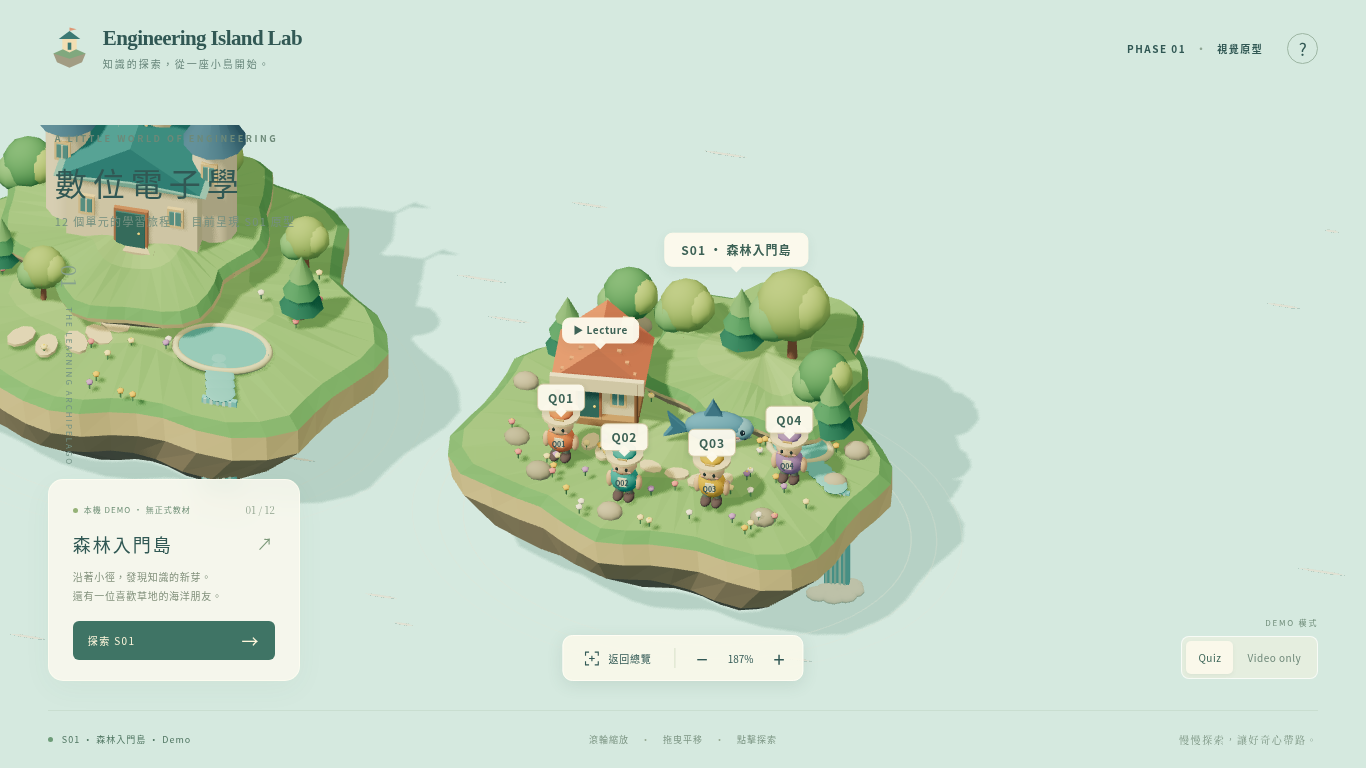
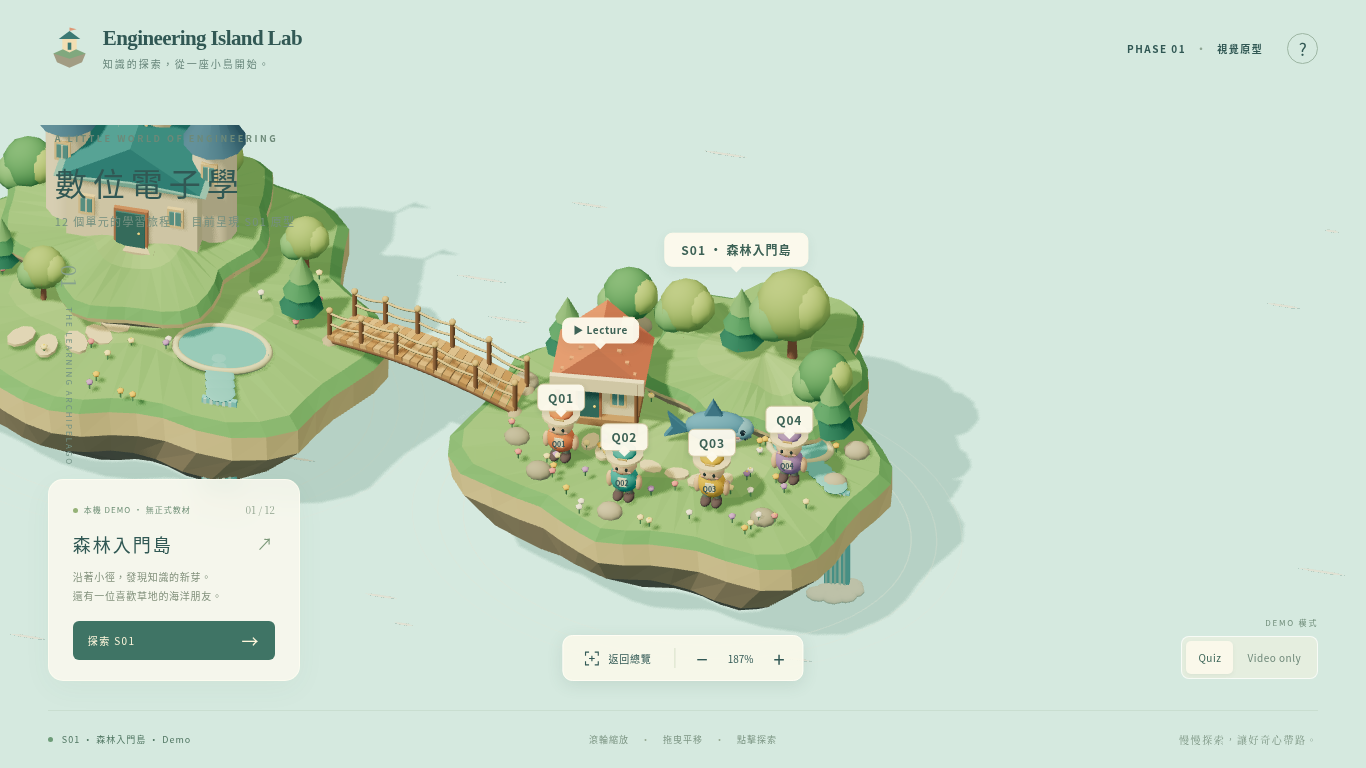
feat: connect prototype islands with a scenic wooden bridge

Changed region(s): [[0.2152, 0.375, 0.3997, 0.5625]]

diff --git a/test/scene.test.js b/test/scene.test.js
@@ -1,6 +1,6 @@
 import assert from 'node:assert/strict';
 import test from 'node:test';
-import { Vector3 } from 'three';
+import { Box3, Raycaster, Vector2, Vector3 } from 'three';
 import { createIslandScene } from '../src/scene.js';
 import { createTerrain } from '../src/world/terrain.js';
 import { sharkPose } from '../src/world/animals.js';
@@ -128,4 +128,68 @@ test('click/drag tracks maximum excursion, exact threshold, cancellation and orp
   gesture.begin(0, 0);
   gesture.cancel();
   assert.equal(gesture.end(0, 0), false);
+});
+
+test('scenic bridge lands on both banks and curves above the water inside the overview', () => {
+  const world = createIslandScene(config, demoFixture);
+  const bridge = world.bridge;
+  world.scene.updateMatrixWorld(true);
+  const banks = [world.academy, world.forest];
+  const deck = bridge.getObjectByName('bridge-deck').children;
+  for (const [i, plank] of [deck[0], deck.at(-1)].entries()) {
+    const terrain = banks[i].getObjectByName('coast-and-cliffs');
+    const ray = new Raycaster(
+      plank.position.clone().add(new Vector3(0, 5, 0)),
+      new Vector3(0, -1, 0),
+    );
+    const hit = ray.intersectObject(terrain)[0];
+    assert.ok(hit, 'each bridge end overlaps solid island terrain');
+    assert.ok(plank.position.y - hit.point.y > 0 && plank.position.y - hit.point.y < 0.4);
+  }
+  const middle = deck[Math.floor(deck.length / 2)].position;
+  const straight = deck[0].position.clone().lerp(deck.at(-1).position, 0.5);
+  assert.ok(middle.y - straight.y > 0.45, 'arched deck remains visibly three-dimensional');
+  assert.ok(
+    middle.z - straight.z > 0.25,
+    'deck bends gently in plan rather than forming a straight road',
+  );
+  assert.ok(
+    world.bounds.containsBox(new Box3().setFromObject(bridge)),
+    'bridge fits existing overview bounds',
+  );
+});
+
+test('bridge stays decorative in both modes and clear of the Lecture/NPC interaction areas', () => {
+  for (const assignmentMode of ['quiz', 'video-only']) {
+    const world = createIslandScene({ ...config, assignmentMode }, demoFixture);
+    world.bridge.traverse((object) => {
+      assert.ok(!world.pickables.includes(object));
+      assert.equal(object.userData.action, undefined);
+    });
+    const bridgeBounds = new Box3().setFromObject(world.bridge);
+    for (const object of [world.forest.getObjectByName('lecture-cottage'), ...world.npcs]) {
+      assert.equal(bridgeBounds.intersectsBox(new Box3().setFromObject(object)), false);
+    }
+    assert.equal(world.npcs.length, assignmentMode === 'quiz' ? 4 : 0);
+  }
+});
+
+test('bridge leaves direct camera sightlines to both island signs, Lecture and all NPCs', () => {
+  const world = createIslandScene(config, demoFixture);
+  const rig = new CameraRig(world.bounds, 1366 / 543);
+  const targets = world.labels.map((item) => item.anchor.getWorldPosition(new Vector3()));
+  for (const object of [world.forest.getObjectByName('lecture-cottage'), ...world.npcs]) {
+    targets.push(new Box3().setFromObject(object).getCenter(new Vector3()));
+  }
+  for (const target of targets) {
+    const projected = target.clone().project(rig.camera);
+    const ray = new Raycaster();
+    ray.setFromCamera(new Vector2(projected.x, projected.y), rig.camera);
+    ray.far = ray.ray.origin.distanceTo(target) - 0.01;
+    assert.equal(
+      ray.intersectObject(world.bridge, true).length,
+      0,
+      'bridge must not obstruct a landmark',
+    );
+  }
 });

diff --git a/src/world/bridge.js b/src/world/bridge.js
@@ -1,0 +1,68 @@
+import { CatmullRomCurve3, Group, Matrix4, TubeGeometry, Vector3 } from 'three';
+import { ball, box, cylinder, mesh } from './primitives.js';
+
+// A scenic footbridge only: no picking, collision, navigation, or input handlers.
+export function createBridge(start, end) {
+  const group = new Group();
+  group.name = 'scenic-bridge';
+  group.userData.decoration = true;
+  const up = new Vector3(0, 1, 0);
+  const points = Array.from({ length: 33 }, (_, i) => {
+    const t = i / 32;
+    const point = start.clone().lerp(end, t);
+    point.y += Math.sin(t * Math.PI) * 0.6;
+    point.z += Math.sin(t * Math.PI) * 0.35;
+    return point;
+  });
+  const curve = new CatmullRomCurve3(points);
+  const acrossAt = (t) => new Vector3().crossVectors(up, curve.getTangentAt(t)).normalize();
+  const offsetAt = (t, side, height) =>
+    curve.getPointAt(t).addScaledVector(acrossAt(t), side).addScaledVector(up, height);
+  const timberColors = ['#c39769', '#d0a779', '#bc8e60', '#d8af80'];
+  const deck = new Group();
+  deck.name = 'bridge-deck';
+  group.add(deck);
+  const count = 25;
+  for (let i = 0; i < count; i++) {
+    const t = (i + 0.5) / count;
+    const tangent = curve.getTangentAt(t);
+    const across = acrossAt(t);
+    const normal = new Vector3().crossVectors(tangent, across).normalize();
+    const plank = box(deck, timberColors[i % timberColors.length], curve.getPointAt(t).toArray(), [
+      1.1,
+      0.13,
+      (curve.getLength() / count) * 0.94,
+    ]);
+    plank.quaternion.setFromRotationMatrix(new Matrix4().makeBasis(across, normal, tangent));
+  }
+  for (const side of [-0.48, 0.48]) {
+    const beam = new CatmullRomCurve3(points.map((_, i) => offsetAt(i / 32, side, -0.13)));
+    mesh(group, new TubeGeometry(beam, 40, 0.075, 6, false), '#886951');
+    // Slim posts and gently dipping rope handrails keep the silhouette light.
+    for (let i = 0; i <= 5; i++) {
+      const foot = offsetAt(i / 5, side, 0);
+      cylinder(group, '#936e50', foot.clone().addScaledVector(up, 0.4).toArray(), 0.065, 0.87, 7);
+      ball(
+        group,
+        '#d5b37d',
+        foot.clone().addScaledVector(up, 0.87).toArray(),
+        [0.09, 0.09, 0.09],
+        7,
+      );
+    }
+    for (const height of [0.43, 0.78]) {
+      const rope = new CatmullRomCurve3(
+        Array.from({ length: 61 }, (_, i) => {
+          const t = i / 60;
+          return offsetAt(t, side, height - Math.abs(Math.sin(t * Math.PI * 5)) * 0.07);
+        }),
+      );
+      mesh(group, new TubeGeometry(rope, 60, 0.035, 5, false), '#d3b98a');
+    }
+    for (const t of [0, 1]) {
+      const foot = offsetAt(t, side, -0.28);
+      ball(group, '#b8ad90', foot.toArray(), [0.24, 0.25, 0.3], 7);
+    }
+  }
+  return { group, curve };
+}

diff --git a/src/scene.js b/src/scene.js
@@ -13,6 +13,7 @@ import {
   Box3,
 } from 'three';
 import { createTerrain } from './world/terrain.js';
+import { createBridge } from './world/bridge.js';
 import {
   createAcademy,
   createLecture,
@@ -197,6 +198,13 @@ export function createIslandScene(config, fixture = null) {
   animated.push(shark);
   animateShark(shark, 0);
 
+  // Keep the crossing in the gap, away from the academy, cottage and NPC clearing.
+  const { group: bridge } = createBridge(
+    new Vector3(-2.1, 1.02, -0.3),
+    new Vector3(2.9, 1.02, 1.25),
+  );
+  scene.add(bridge);
+
   const sea = new Mesh(
     new PlaneGeometry(200, 200),
     new ShadowMaterial({ color: '#4e7665', opacity: 0.23 }),
@@ -254,6 +262,7 @@ export function createIslandScene(config, fixture = null) {
     islands,
     academy,
     forest,
+    bridge,
     npcs,
     shark,
     pickables,

diff --git a/README.md b/README.md
@@ -1,6 +1,6 @@
 # Engineering Island Lab
 
-以 Three.js 建造的 3D 工程課程群島。目前完成 **Phase 0 與 Phase 1 實作，等待教師視覺／操作驗收**：中央學院與 S01 森林島、正交鏡頭、縮放／平移／聚焦、Lecture 小屋與 Q01–Q04 角色原型，以及自主跳動的鯊魚。
+以 Three.js 建造的 3D 工程課程群島。目前完成 **Phase 0 與 Phase 1 實作，等待教師視覺／操作驗收**：中央學院與 S01 森林島、連接兩島的弧形木橋、正交鏡頭、縮放／平移／聚焦、Lecture 小屋與 Q01–Q04 角色原型，以及自主跳動的鯊魚。
 
 這是視覺原型，尚未完成正式教學功能。數位電子學設定仍為 12 單元，本階段只繪製 S01；其餘 11 座島，以及其他課程上限所需的 S13–S15 尚未製作。美術仍待教師驗收及精修。
 
@@ -19,12 +19,12 @@ npm run build
 npm run demo
 ```
 
-已經 clone 的教師可先 `git fetch origin`、`git switch feat/phase-0-1-island-prototype`，再安裝及驗收。請保留自己的未提交修改。
+已經 clone 的教師可先 `git fetch origin`、`git switch feat/phase-0-1-island-prototype`，再安裝及驗收。請保留自己的未提交修改。已在本功能分支且工作樹乾淨時，可執行 `git pull --ff-only origin feat/phase-0-1-island-prototype` 取得木橋更新。
 
 `npm run demo` 啟動 Vite 並開啟明確的本機 Demo。若瀏覽器沒有自動打開，請開 [http://localhost:5173/?demo=1](http://localhost:5173/?demo=1)。Chrome、Edge 各執行一次以下清單；1366×768、100% 瀏覽器縮放為基本驗收尺寸。
 
 1. 總覽同時看見中央學院與 S01，主島標牌顯示「數位電子學」。島嶼有不規則海岸、草丘、斜岩壁及厚度，無規則方／六角柱島體。
-2. 放大欣賞森林、彩色花草、小瀑布、小屋、學院塔樓。評估色彩、童話感和造型是否符合參考方向；**需教師實際判斷美術品質**。
+2. 總覽確認木橋清楚連接兩岸，放大檢查微拱木板、弧線與繩欄自然融入場景；橋不遮住兩島標牌、小屋或 NPC。橋只供欣賞，點擊不開視窗；拖曳／滾輪仍操作鏡頭。放大欣賞森林、彩色花草、小瀑布、小屋、學院塔樓。評估色彩、童話感和造型是否符合參考方向；**需教師實際判斷美術品質**。
 3. 滾輪平滑縮放，拖曳海面或地圖平移；拖出去又回原點鬆手也不應開啟 NPC 視窗。左鍵和右鍵皆可拖曳平移。
 4. 點 S01 地形、S01 標牌或「探索 S01」平滑聚焦，仍能繼續滾輪放大。按「返回總覽」應回到雙島構圖；也可聚焦主島。聚焦後鄰島可能超出畫面，符合連續世界近看行為。
 5. S01 聚焦後四名角色各有清晰 Q01–Q04 頭頂標牌及衣服識別。點角色模型或標牌開啟對應的 **Demo 說明**，不出現真題、答案或外部影片。
@@ -54,6 +54,7 @@ npm run demo
 | `src/interaction.js` | 最大移動距離 click/drag 閾值、pointer cancel、白名單射線拾取 |
 | `src/scene.js` | 同一世界內的主島／S01、光源、標籤 anchor 及拾取註冊 |
 | `src/world/terrain.js` | 可重現的多層不規則海岸、收縮漂移岩坡、原創頂點色幾何 |
+| `src/world/bridge.js` | 兩岸間微拱、彎曲的木板橋與繩欄，純裝飾且無互動／碰撞／導航 |
 | `src/world/props.js` | 學院、小屋、探索者、植被、花草、步道、瀑布 |
 | `src/world/animals.js` | 只接受時間的自主鯊魚動畫，完全不註冊互動 |
 | `src/ui.js` | 可鍵盤操作的 CSS2D 標牌、原生 dialog、關閉後焦點回復 |
@@ -72,7 +73,7 @@ npx playwright install chromium
 npm run test:browser
 ```
 
-- `npm test`：19 個 Node 內建測試，涵蓋 1/12/15 設定及非法值、相對根／子目錄、空 Manifest／安全路徑、錯誤 JSON、無 GPU 場景、自然地貌、video-only、裝飾動物不被拾取、正交取景、zoom 邊界、focus/reset、click/drag/cancel。
+- `npm test`：22 個 Node 內建測試，涵蓋 1/12/15 設定及非法值、相對根／子目錄、空 Manifest／安全路徑、錯誤 JSON、無 GPU 場景、自然地貌、video-only、裝飾動物不被拾取、正交取景、zoom 邊界、focus/reset、click/drag/cancel，以及橋端落岸、橋面弧度、裝飾拾取排除與標牌／小屋／NPC 視線不被橋遮擋。
 - `test:smoke`：建置後把 dist 掛在 `/~wildwolf/engineering-island-lab/`，驗證 HTML／JS／CSS／favicon／course-config／空 Manifest，無需 Apache。
 - `test:browser`：Playwright 真正執行 Chromium/WebGL。使用系統 `/usr/bin/chromium`（若有），或 Playwright 安裝的 Chromium；可用 `CHROMIUM_PATH` 指定執行檔。結果圖放 `test-results/`（不納入 Git）。先執行 `npm run build`，用於正式子目錄入口測試。
 - 三維幾何由原創程式產生。Node 測試與 Linux Chromium **不能取代 Windows Chrome／Edge 的教師驗收**。

diff --git a/docs/PHASE_1_ACCEPTANCE.md b/docs/PHASE_1_ACCEPTANCE.md
@@ -14,6 +14,7 @@
 
 - AGENTS、Plan、README 規範、模組邊界、分階段待辦與教師驗收清單。
 - 同一連續 3D 場景：學院塔樓／中文課名、自然分層岩岸、草丘、樹木、花草、步道、水池與小瀑布，S01 Lecture 小屋和四名彩色探索者。
+- 微拱木橋連接既有兩岸，平面略彎、暖色木板、細木柱與繩欄；純視覺元素，未加入互動／角色通行／碰撞／導航，也未移動島嶼或改變相機。
 - 固定約 42° 正交相機；連續平滑滾輪／按鈕縮放、拖曳平移、地形／標牌點擊聚焦、返回總覽、鍵盤 Home／Esc／+/−。
 - click/drag 以最大位移 6px 分辨，離開又回來不當點擊；cancel／多指操作不觸發內容。
 - Q01–Q04 頭頂標牌及衣服識別；聚焦顯示細節，原生 dialog 提供誠實的 Demo 說明、焦點回復及背景事件隔離。
@@ -25,8 +26,8 @@
 
 | 檢查 | 結果 | 內容 |
 |---|---|---|
-| `npm test` | 19/19 通過 | 設定 1/12/15、非法值、空 manifest、根／子目錄及 HTTP／JSON 錯誤、自然地貌、模式、相機、click/drag、裝飾物無拾取 |
-| `npm run build` | 通過 | 靜態 dist；仍有 >500 kB chunk 提示（主 JS 約 590 kB，gzip 約 153 kB） |
+| `npm test` | 22/22 通過 | 設定 1/12/15、非法值、空 manifest、根／子目錄及 HTTP／JSON 錯誤、自然地貌、模式、相機、click/drag、裝飾物無拾取、橋端落岸／曲線／不遮地標 |
+| `npm run build` | 通過 | 靜態 dist；仍有 >500 kB chunk 提示（主 JS 約 593 kB，gzip 約 154 kB） |
 | `npm run test:smoke` | 通過 | Apache 型 `/~wildwolf/engineering-island-lab/` 下 HTML／JS／CSS／favicon／JSON／空 Manifest |
 | `npm run test:browser` | 12/12 通過 | Linux Chromium + 真實 WebGL 渲染（SwiftShader），1366×768 與 390×844 |
 | 額外模型拾取檢查 | 通過 | 直接點 Q03 模型開 Q03 占位視窗；直接點 Lecture 建物開小屋占位視窗 |
@@ -40,9 +41,9 @@
 
 下列圖為本專案實際瀏覽器截圖；動畫時間點可能略有不同，未使用參考圖或第三方模型作為網站素材。
 
-### 雙島總覽
+### 雙島總覽（木橋修訂後）
 
-![中央學院與 S01](acceptance/phase-1-overview.png)
+![中央學院與 S01 以木橋串接](acceptance/phase-1-overview.png)
 
 ### S01 聚焦
 
@@ -55,6 +56,18 @@
 ### 窄視窗
 
 ![390×844 總覽](acceptance/phase-1-narrow.png)
+
+## 木橋修訂驗收
+
+本輪沿用 Draft PR #1；只增加景觀橋及對應測試、文件與截圖。新增三項 Node 測試驗證橋兩端有實際島體承接、橋有垂直微拱及平面弧度、橋在既有總覽範圍內、兩種模式都排除橋的拾取／動作，以及朝向島名標牌、Lecture 和 Q01–Q04 的相機射線不被橋遮住。既有 12 項瀏覽器操作回歸通過，另以瀏覽器直接操作橋面中央，確認無專屬 hover／點擊視窗，拖曳平移及滾輪縮放仍正常。
+
+教師請用原本 `npm run demo` 的 Windows Chrome／Edge 流程，加驗：
+
+1. 總覽中木橋明確串接兩岸，細欄杆與木色不壓過主島和 S01。
+2. 聚焦或放大後，橋面弧線、分片木板、繩欄和接岸自然；無硬直公路感。
+3. 兩島標牌、小屋、四位 NPC 不被橋擋住，原有點擊及 Modal 正常。
+4. 游標／點擊橋面不出現橋的專屬 hover 或視窗；橋面中央可拖曳平移及滾輪縮放，返回總覽正常。
+5. 切 Video only 後木橋仍在、NPC／Q 標牌全消失，切回 Quiz 正常。
 
 ## 尚未完成與停止點
 
